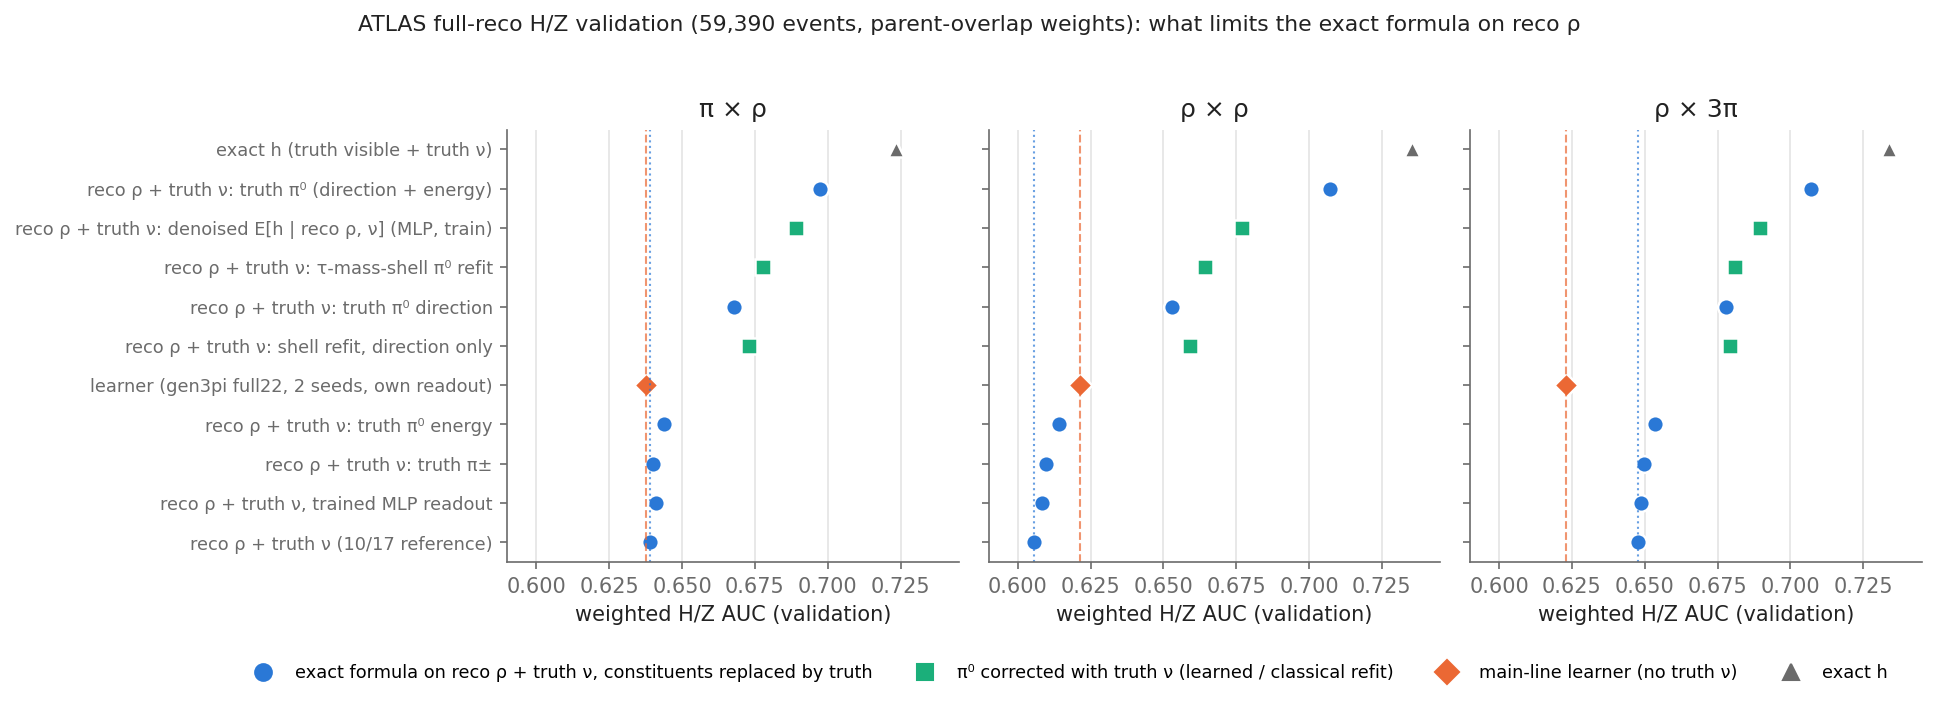
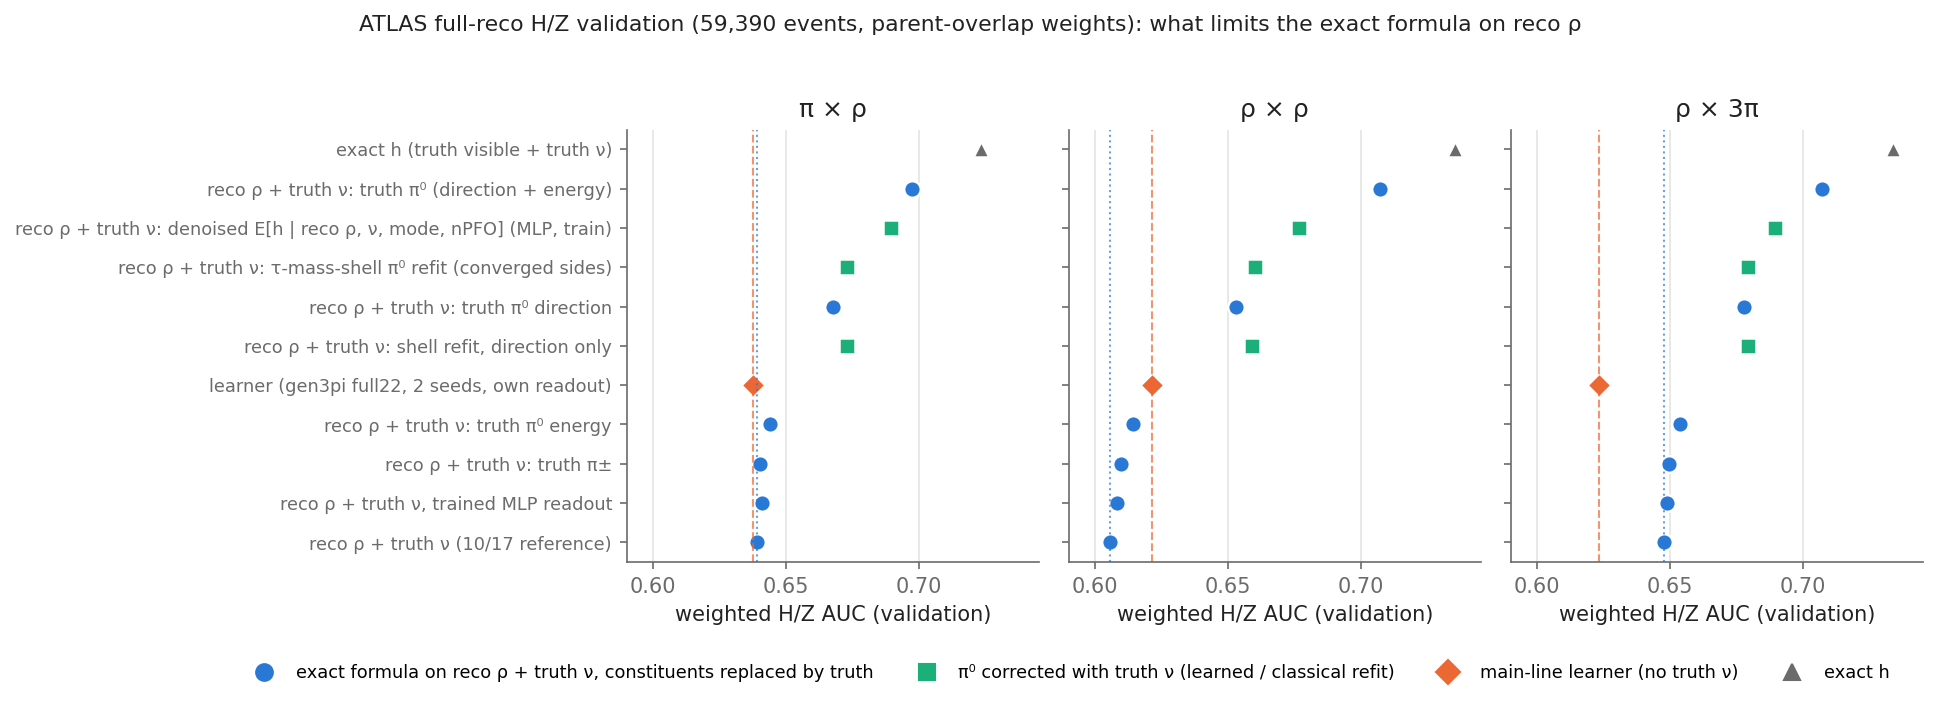
rho_beyond_exact: fig1 uses the converged-only refit (review)

diff --git a/analysis/rho_beyond_exact/make_figures.py b/analysis/rho_beyond_exact/make_figures.py
@@ -23,13 +23,13 @@ plt.rcParams.update({'font.size': 10, 'axes.edgecolor': MUTED, 'axes.labelcolor'
 
 
 def fig1(R, out):
-    s2, s4, s7 = (json.loads((R / f).read_text()) for f in ('s2_readouts.json', 's4_eval.json', 's7_shell_refit.json'))
+    s2, s4, s7 = (json.loads((R / f).read_text()) for f in ('s2_readouts.json', 's4_eval.json', 's7_shell_refit_v2.json'))
     a2, a4, a7 = s2['auc'], s4['auc'], s7['auc']
     rows = [  # label, source dict, key, group (0 reco+truth nu ladder, 1 refit/denoised, 2 learner, 3 exact)
         ('exact h (truth visible + truth ν)', a2, 'exact formula', 3),
         ('reco ρ + truth ν: truth π⁰ (direction + energy)', a2, 'ladder pi0 formula', 0),
-        ('reco ρ + truth ν: denoised E[h | reco ρ, ν] (MLP, train)', a4, 'denoised formula', 1),
-        ('reco ρ + truth ν: τ-mass-shell π⁰ refit', a7, 'formula shell refit', 1),
+        ('reco ρ + truth ν: denoised E[h | reco ρ, ν, mode, nPFO] (MLP, train)', a4, 'denoised formula', 1),
+        ('reco ρ + truth ν: τ-mass-shell π⁰ refit (converged sides)', a7, 'formula shell refit (converged sides only)', 1),
         ('reco ρ + truth ν: truth π⁰ direction', a2, 'ladder pi0dir formula', 0),
         ('reco ρ + truth ν: shell refit, direction only', a7, 'formula shell refit (dir only)', 1),
         ('learner (gen3pi full22, 2 seeds, own readout)', a2, 'learner ens_full22 readout', 2),
